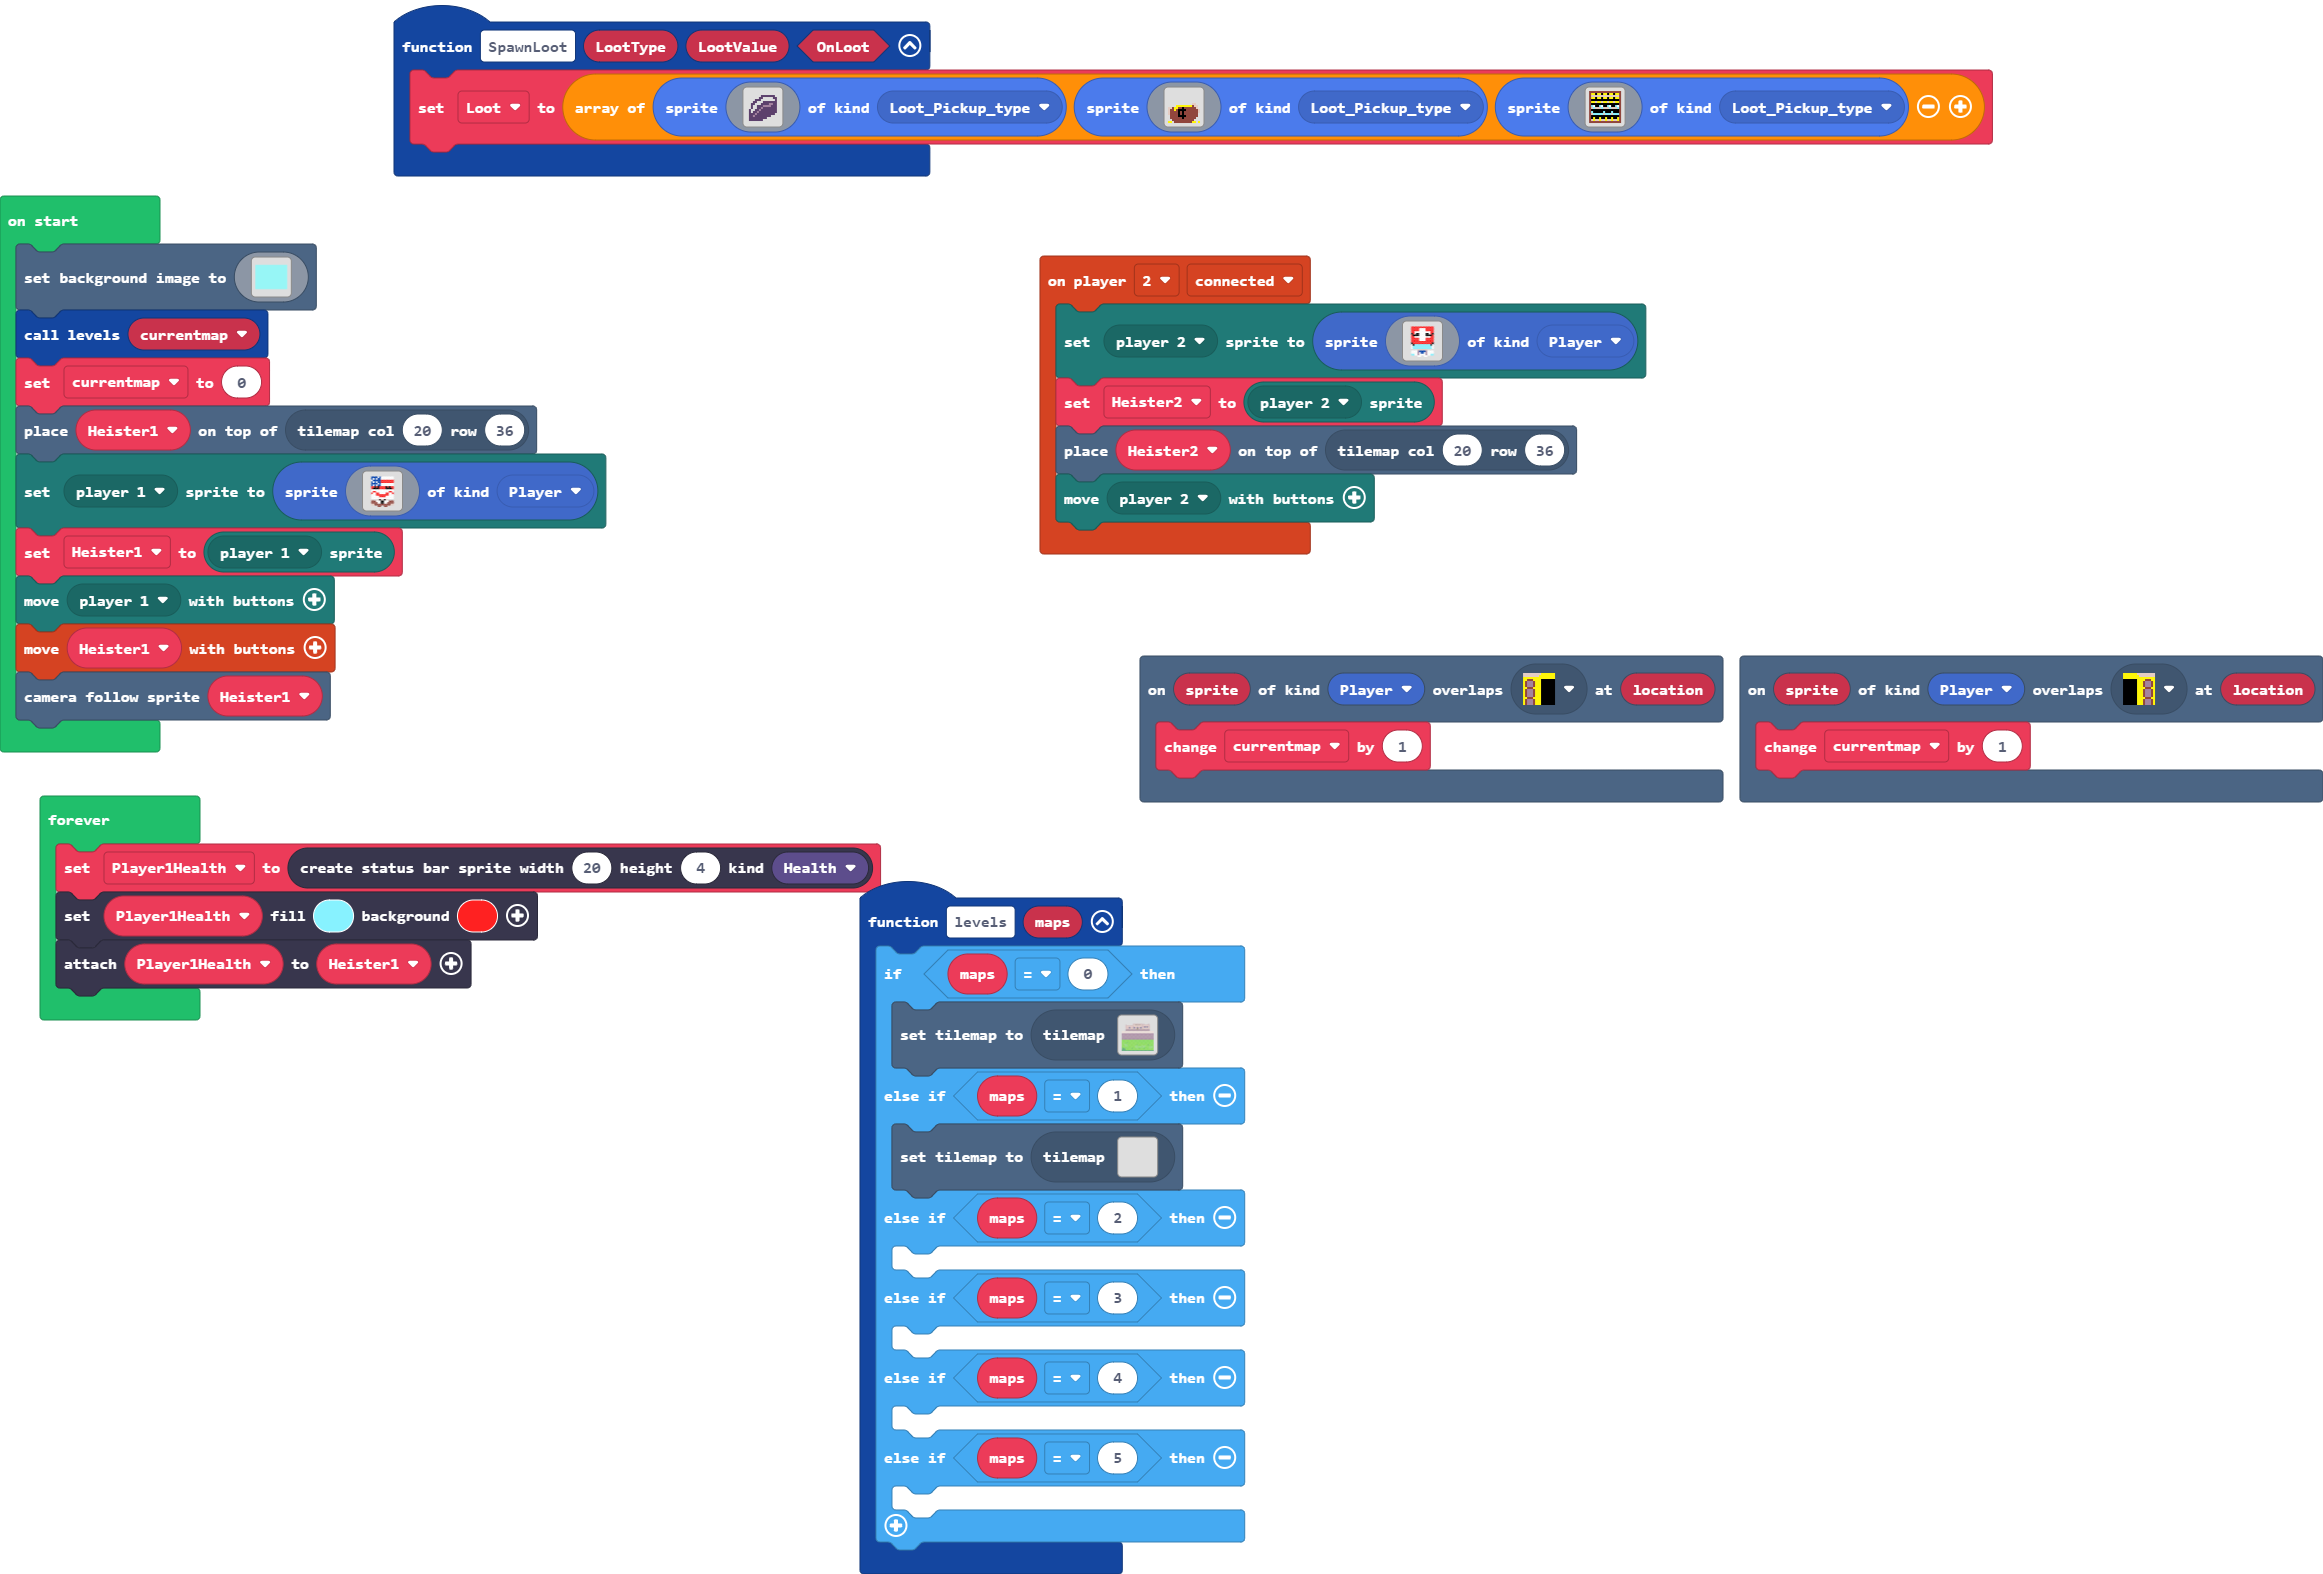
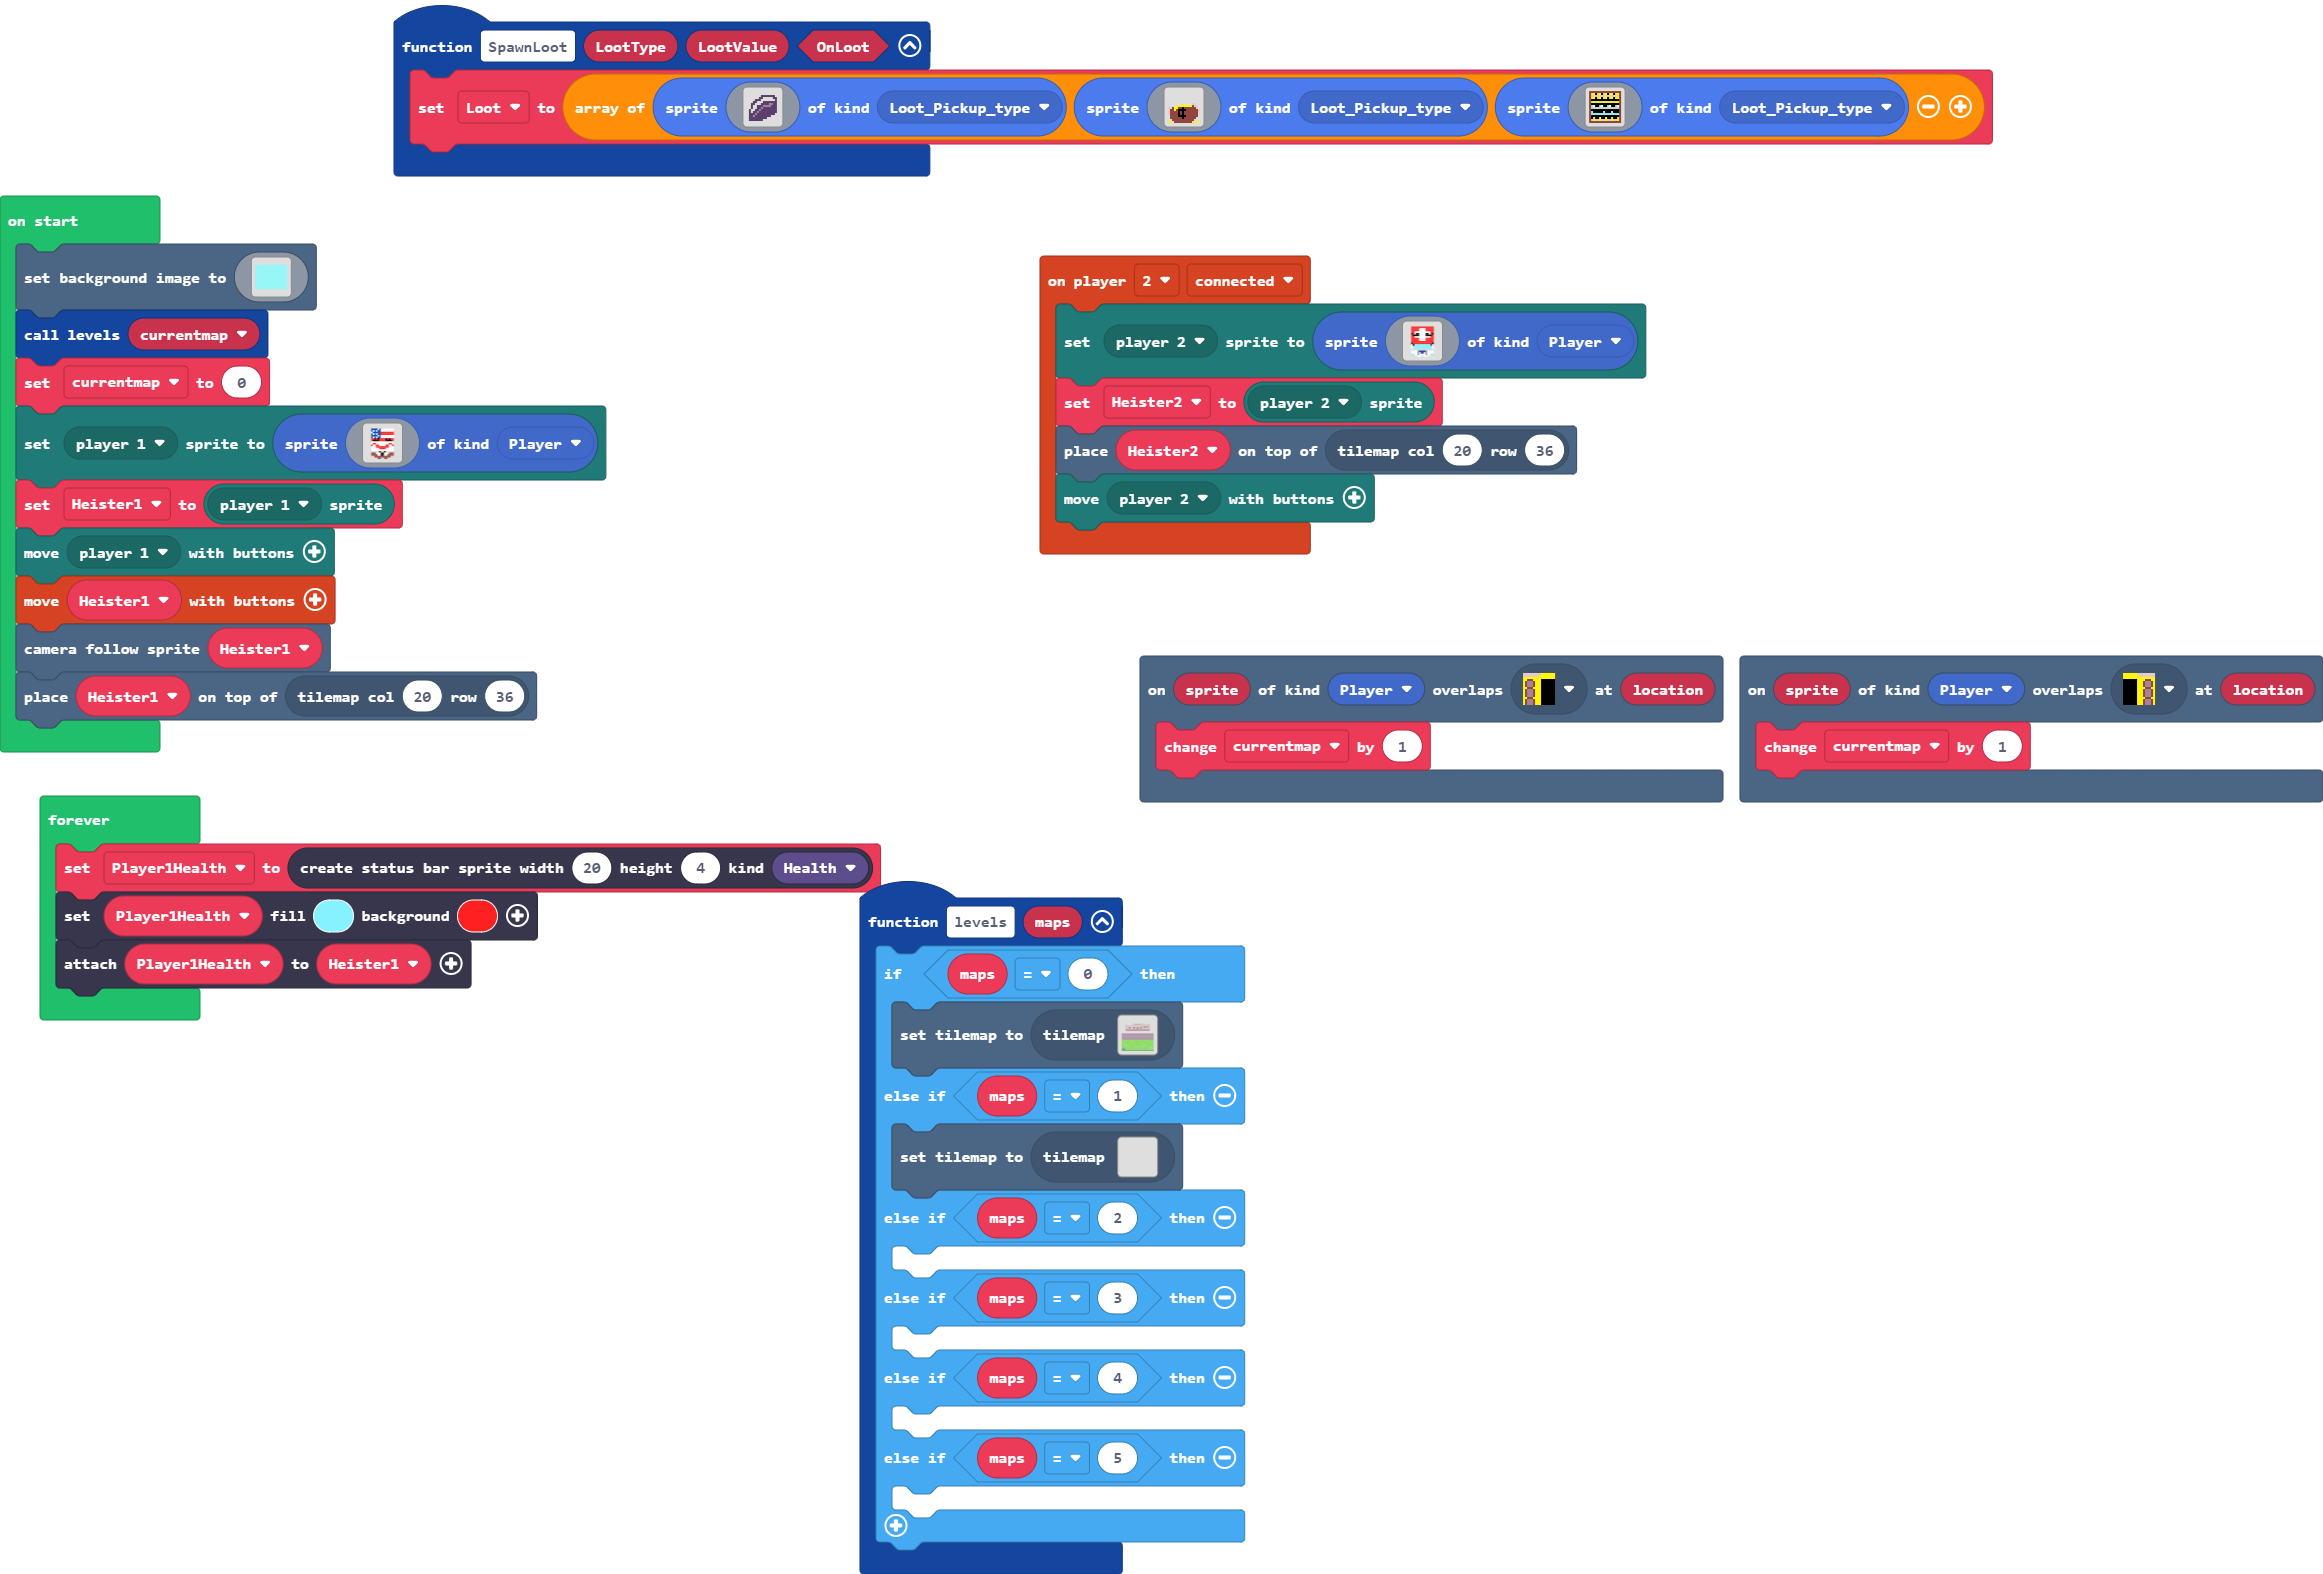
Update main.blocks, main.ts

Changed region(s): [[0.0, 0.249, 0.2789, 0.467]]

diff --git a/main.ts b/main.ts
@@ -34,17 +34,16 @@ controller.player2.onEvent(ControllerEvent.Connected, function () {
 let Player1Health: StatusBarSprite = null
 let Heister2: Sprite = null
 let Loot: Sprite[] = []
-let Heister1: Sprite = null
 let currentmap = 0
 scene.setBackgroundImage(assets.image`sky`)
 levels(currentmap)
 currentmap = 0
-tiles.placeOnTile(Heister1, tiles.getTileLocation(20, 36))
 mp.setPlayerSprite(mp.playerSelector(mp.PlayerNumber.One), sprites.create(assets.image`Austin`, SpriteKind.Player))
-Heister1 = mp.getPlayerSprite(mp.playerSelector(mp.PlayerNumber.One))
+let Heister1 = mp.getPlayerSprite(mp.playerSelector(mp.PlayerNumber.One))
 mp.moveWithButtons(mp.playerSelector(mp.PlayerNumber.One))
 controller.moveSprite(Heister1)
 scene.cameraFollowSprite(Heister1)
+tiles.placeOnTile(Heister1, tiles.getTileLocation(20, 36))
 forever(function () {
     Player1Health = statusbars.create(20, 4, StatusBarKind.Health)
     Player1Health.setColor(9, 2)
